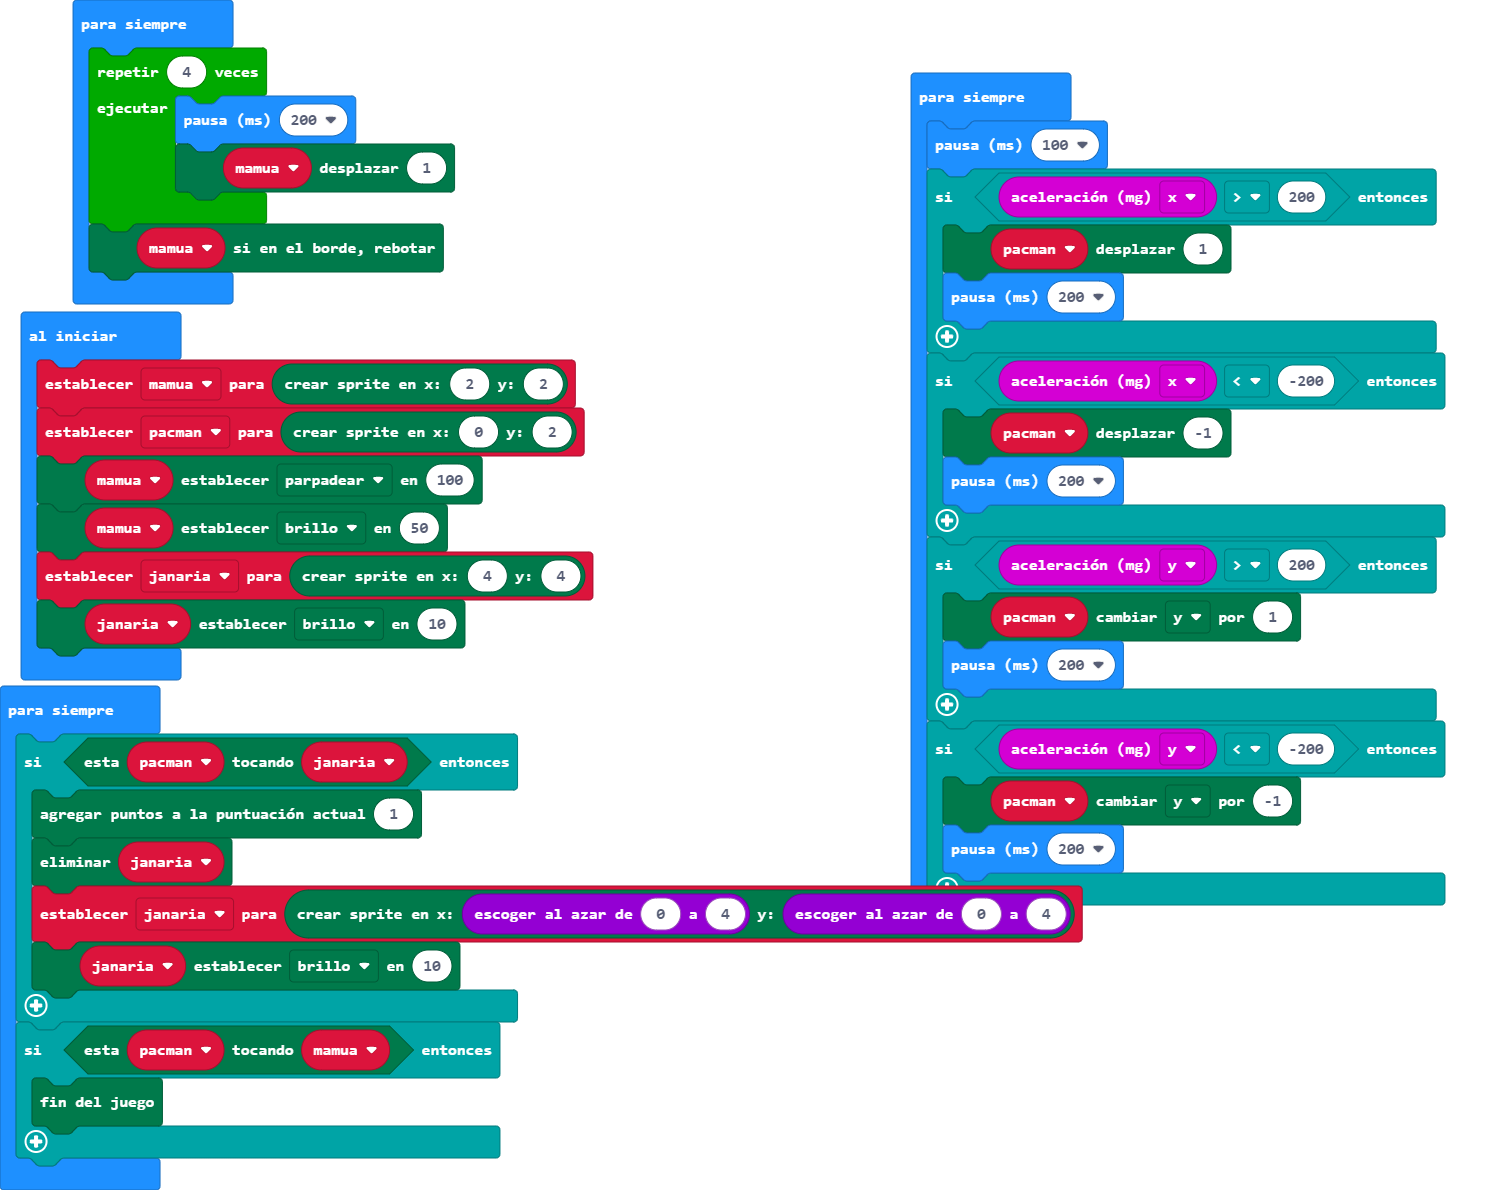
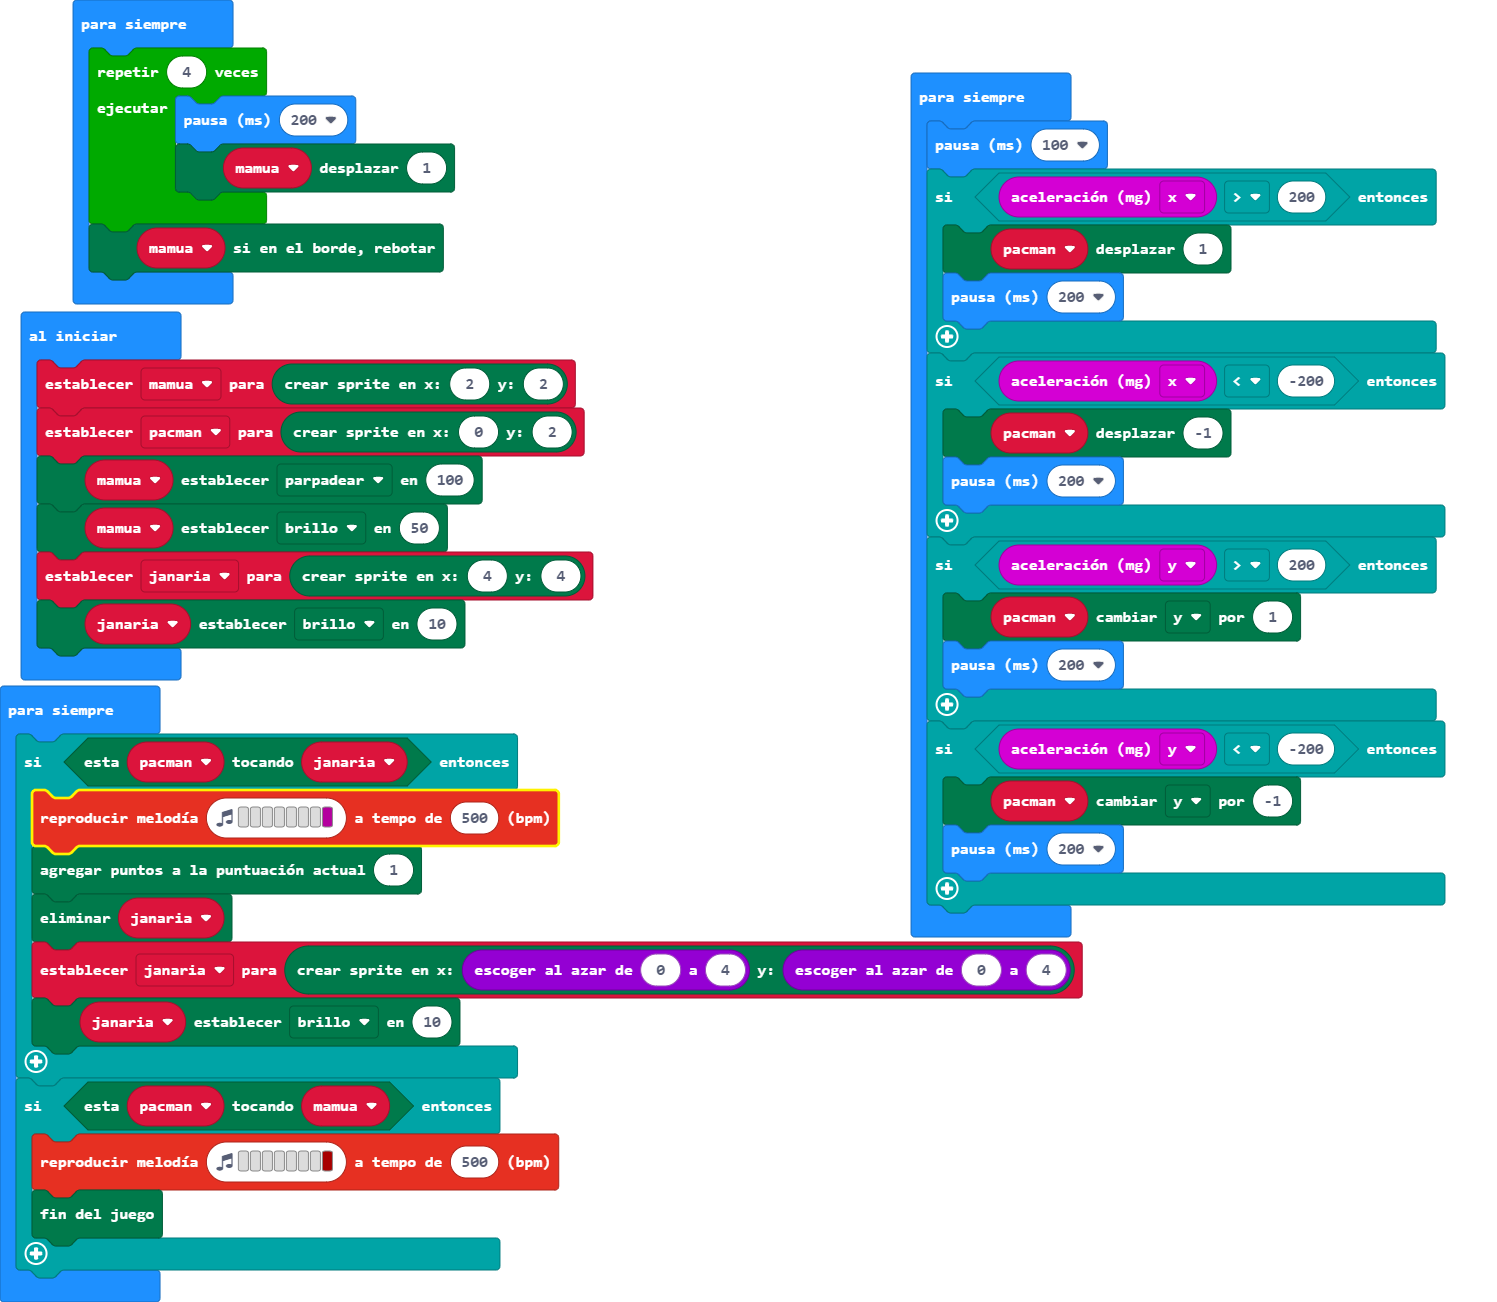
Actualizar main.blocks, main.ts

diff --git a/main.ts b/main.ts
@@ -32,12 +32,14 @@ basic.forever(function () {
 })
 basic.forever(function () {
     if (pacman.isTouching(janaria)) {
+        music.playMelody("- - - - - - - C ", 500)
         game.addScore(1)
         janaria.delete()
         janaria = game.createSprite(randint(0, 4), randint(0, 4))
         janaria.set(LedSpriteProperty.Brightness, 10)
     }
     if (pacman.isTouching(mamua)) {
+        music.playMelody("- - - - - - - C5 ", 500)
         game.gameOver()
     }
 })
